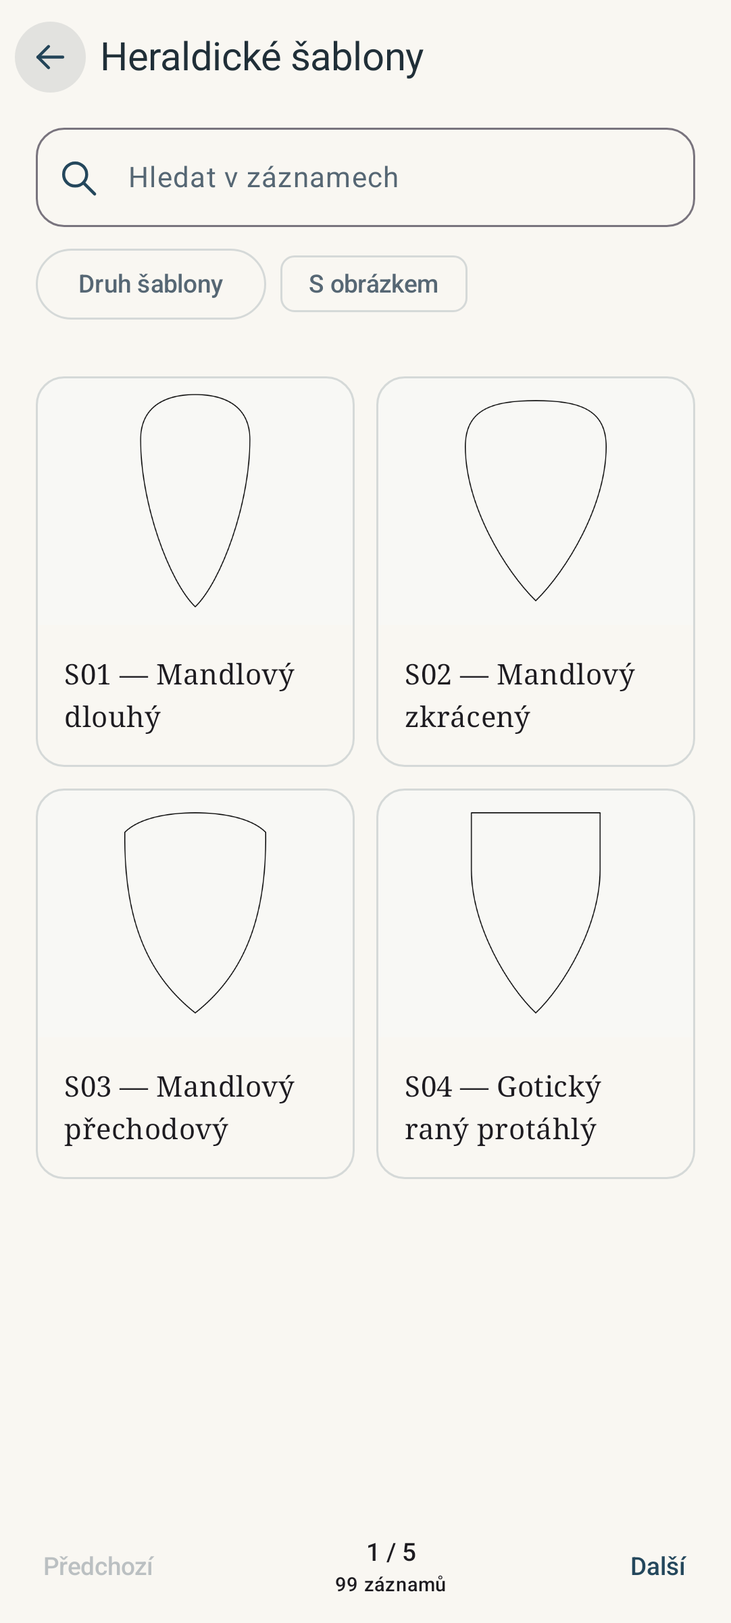
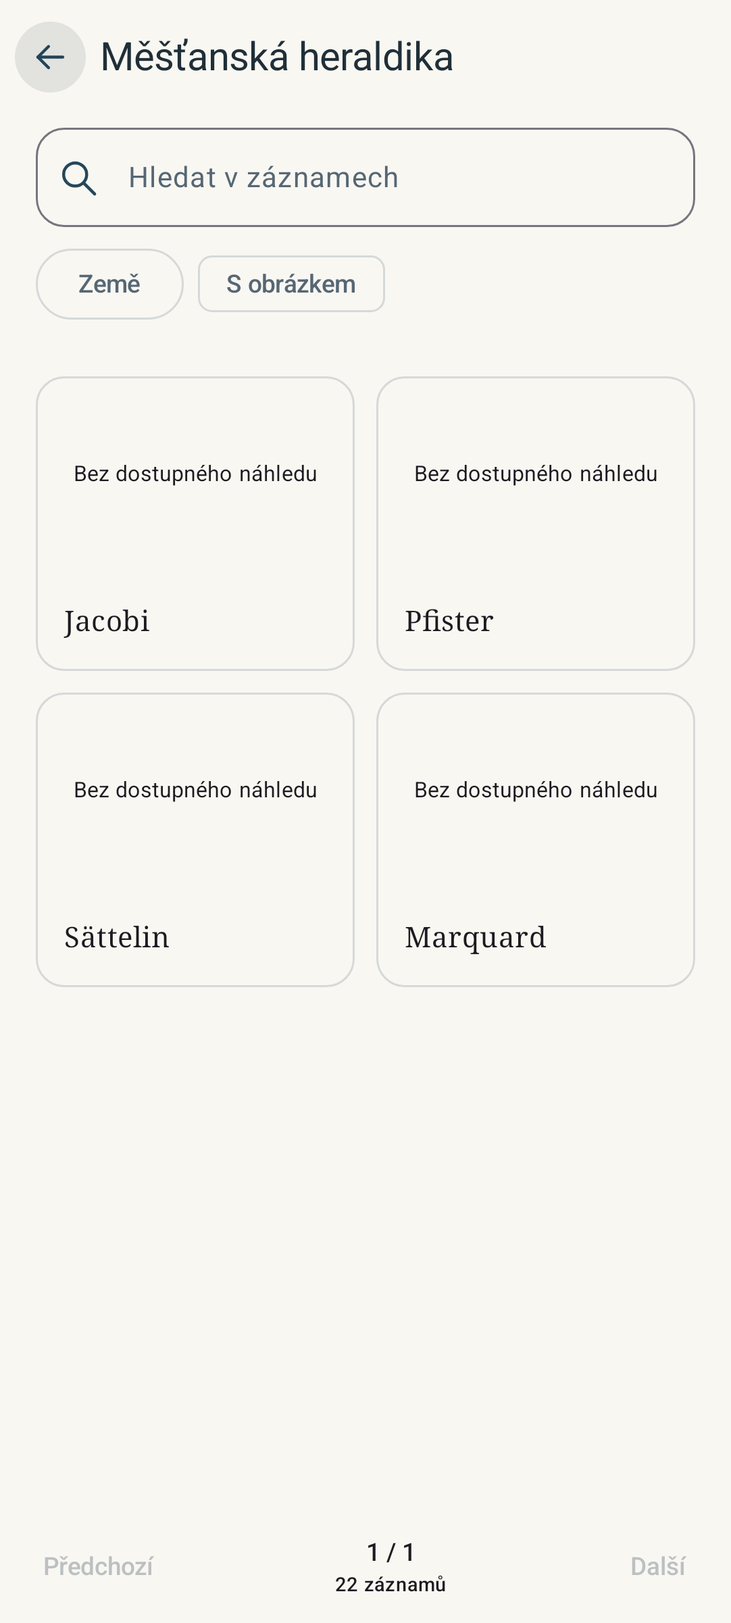
Remove desktop-only templates and validate mobile aid readers on device

diff --git a/app/src/main/kotlin/com/vestigiascriptorium/android/ui/main/DownloadsScreen.kt b/app/src/main/kotlin/com/vestigiascriptorium/android/ui/main/DownloadsScreen.kt
@@ -9,6 +9,7 @@ import androidx.compose.material3.*
 import androidx.compose.runtime.*
 import androidx.compose.runtime.saveable.rememberSaveable
 import androidx.compose.ui.Modifier
+import androidx.compose.ui.platform.testTag
 import androidx.compose.ui.text.font.FontFamily
 import androidx.compose.ui.unit.dp
 import com.vestigiascriptorium.android.aids.AidLibraryState
@@ -18,12 +19,12 @@ internal fun DownloadsScreen(copy: Copy,library: AidLibraryState,onDownload: (St
     onCancel: (String) -> Unit,onUninstall: (String) -> Unit,onWifi: (Boolean) -> Unit,onCatalog: () -> Unit,onDetail: (String) -> Unit) {
     var filter by rememberSaveable { mutableIntStateOf(0) }
     var removeId by rememberSaveable { mutableStateOf<String?>(null) }
-    val selected=aids.filter { aid -> library.jobs[aid.id]?.let { job ->
-        when(filter) { 1 -> job.status !in listOf("installed","update","error");2 -> library.installed.containsKey(aid.id);3 -> job.status=="error";else -> true }
+    val selected=managedAids.filter { aid -> library.jobs[aid.id]?.let { job ->
+        when(filter) { 1 -> job.status !in listOf("installed","update","error","retired");2 -> library.installed.containsKey(aid.id);3 -> job.status=="error";else -> true }
     } ?: false }
     val installedSize=library.installed.values.sumOf { it.size }
     val filterLabels=listOf(copy.t("Vše","All"),copy.t("Fronta","Queue"),copy.t("Nainstalované","Installed"),copy.t("Chyby","Errors"))
-    LazyColumn(contentPadding=PaddingValues(24.dp),verticalArrangement=Arrangement.spacedBy(20.dp)) {
+    LazyColumn(modifier=Modifier.testTag("downloads-list"),contentPadding=PaddingValues(24.dp),verticalArrangement=Arrangement.spacedBy(20.dp)) {
         item { Eyebrow(copy.t("SPRÁVA BADATELSKÝCH POMŮCEK","RESEARCH AID MANAGEMENT")) }
         item { Heading(copy.t("Stahování","Downloads"),copy.t("Stažení, instalace a odinstalace databázových pomůcek.","Download, install and uninstall reference databases.")) }
         item {
@@ -57,6 +58,7 @@ internal fun DownloadsScreen(copy: Copy,library: AidLibraryState,onDownload: (St
                 Column(Modifier.fillMaxWidth().padding(20.dp),verticalArrangement=Arrangement.spacedBy(12.dp)) {
                     Text(copy.title(aid),style=MaterialTheme.typography.titleLarge,fontFamily=FontFamily.Serif)
                     Pill(copy.status(status),installed!=null)
+                    if(aid.id=="heraldry-templates") Text(copy.t("Tento balíček je určen pouze pro desktop. V Androidu jej můžete odinstalovat.","This package is for desktop use only. You can uninstall it from Android."))
                     if(status=="active") {
                         LinearProgressIndicator(progress={if(job.total>0) (job.bytes.toFloat()/job.total).coerceIn(0f,1f) else 0f},modifier=Modifier.fillMaxWidth())
                         Text("${copy.size(job.bytes)} / ${copy.size(job.total)}",style=MaterialTheme.typography.bodySmall)
@@ -65,7 +67,7 @@ internal fun DownloadsScreen(copy: Copy,library: AidLibraryState,onDownload: (St
                     if(status=="queued") Text(copy.t("Čeká na povolenou síť nebo spuštění systémem.","Waiting for an allowed network or system scheduling."),style=MaterialTheme.typography.bodySmall)
                     if(status=="paused") Text(copy.t("Po pokračování se balíček stáhne od začátku.","Resuming will download the package from the beginning."),style=MaterialTheme.typography.bodySmall)
                     if(status=="error") Text(copy.error(job.error),color=MaterialTheme.colorScheme.error)
-                    if(installed!=null && status !in listOf("installed","update")) Text(copy.t("Původní databáze je stále nainstalovaná.","The existing database is still installed."),style=MaterialTheme.typography.bodySmall)
+                    if(installed!=null && status !in listOf("installed","update","retired")) Text(copy.t("Původní databáze je stále nainstalovaná.","The existing database is still installed."),style=MaterialTheme.typography.bodySmall)
                     if(status!="busy") {
                         FlowRow(horizontalArrangement=Arrangement.spacedBy(8.dp)) {
                             when(status) {
@@ -75,8 +77,8 @@ internal fun DownloadsScreen(copy: Copy,library: AidLibraryState,onDownload: (St
                                 "error" -> TextButton(onClick={onDownload(aid.id)}) { Text(copy.t("Zkusit znovu","Retry")) }
                                 "paused" -> TextButton(onClick={onDownload(aid.id)}) { Text(copy.t("Pokračovat","Resume")) }
                             }
-                            if(status !in listOf("installed","update")) TextButton(onClick={onCancel(aid.id)}) { Text(copy.t("Zrušit přenos","Cancel transfer")) }
-                            if(installed!=null) TextButton(onClick={removeId=aid.id}) { Text(copy.t("Odinstalovat","Uninstall"),color=MaterialTheme.colorScheme.error) }
+                            if(status !in listOf("installed","update","retired")) TextButton(onClick={onCancel(aid.id)}) { Text(copy.t("Zrušit přenos","Cancel transfer")) }
+                            if(installed!=null || aid.id=="heraldry-templates") TextButton(onClick={removeId=aid.id}) { Text(copy.t("Odinstalovat","Uninstall"),color=MaterialTheme.colorScheme.error) }
                         }
                     }
                 }
@@ -84,5 +86,5 @@ internal fun DownloadsScreen(copy: Copy,library: AidLibraryState,onDownload: (St
         }
         item { Note(copy.t("Stahují se pouze badatelské pomůcky. Rodokmeny a vlastní dokumenty nejsou součástí tohoto správce.","Only research aids are downloaded. Family trees and personal documents are not part of this manager.")) }
     }
-    removeId?.let { id -> UninstallDialog(copy,copy.title(aids.first { it.id==id }),onDismiss={removeId=null},onConfirm={onUninstall(id);removeId=null}) }
+    removeId?.let { id -> UninstallDialog(copy,copy.title(managedAids.first { it.id==id }),onDismiss={removeId=null},onConfirm={onUninstall(id);removeId=null}) }
 }

diff --git a/app/src/main/kotlin/com/vestigiascriptorium/android/aids/AidRepository.kt b/app/src/main/kotlin/com/vestigiascriptorium/android/aids/AidRepository.kt
@@ -34,17 +34,19 @@ internal class AidRepository private constructor(private val app: Application) {
     private val catalogFile=AtomicFile(File(app.noBackupFilesDir,"research-aids-catalog.json"))
     private val stateFlow=MutableStateFlow(AidLibraryState(wifiOnly=prefs.getBoolean("wifiOnly",true)))
     val state=stateFlow.asStateFlow()
-    @Volatile private var metadata=runCatching { catalogFile.openRead().bufferedReader().use { AidNetwork.parse(it.readText()) } }
-        .getOrElse { app.assets.open("research-aids.json").bufferedReader().use { AidNetwork.parse(it.readText()) } }
+    @Volatile private var metadata=MobileAids.withCache(
+        app.assets.open("research-aids.json").bufferedReader().use { AidNetwork.parse(it.readText()) },
+        runCatching { catalogFile.openRead().bufferedReader().use { AidNetwork.parse(it.readText()) } }.getOrDefault(emptyMap()))
     private val busy=java.util.concurrent.ConcurrentHashMap.newKeySet<String>()
     @Volatile private var infos: List<WorkInfo> = emptyList()
     init {
         scope.launch { work.getWorkInfosByTagFlow(TAG).collect { infos=it;publish() } }
         scope.launch { while(isActive) { publish();delay(750) } }
+        scope.launch { work.cancelUniqueWork("aid:${MobileAids.DESKTOP_TEMPLATES}").result.get() }
         refresh()
     }
     @Synchronized private fun publish() {
-        val installed=metadata.keys.mapNotNull { id -> store.installed(id)?.let { id to it } }.toMap()
+        val installed=(metadata.keys+MobileAids.DESKTOP_TEMPLATES).mapNotNull { id -> store.installed(id)?.let { id to it } }.toMap()
         val jobs=linkedMapOf<String,AidJob>()
         metadata.forEach { (id,meta) ->
             val saved=prefs.getString("state:$id",null)
@@ -61,6 +63,9 @@ internal class AidRepository private constructor(private val app: Application) {
             }
             if(current!=null) jobs[id]=current
         }
+        if(store.hasFiles(MobileAids.DESKTOP_TEMPLATES) || MobileAids.DESKTOP_TEMPLATES in busy) {
+            jobs[MobileAids.DESKTOP_TEMPLATES]=AidJob(if(MobileAids.DESKTOP_TEMPLATES in busy) "busy" else "retired")
+        }
         stateFlow.value=stateFlow.value.copy(metadata=metadata,installed=installed,jobs=jobs,wifiOnly=prefs.getBoolean("wifiOnly",true),busy=busy.toSet())
     }
     fun refresh() { scope.launch {
@@ -69,7 +74,7 @@ internal class AidRepository private constructor(private val app: Application) {
         finally { stateFlow.value=stateFlow.value.copy(refreshing=false);publish() }
     }}
     fun refreshNow(): Map<String,AidMetadata> {
-        val next=AidNetwork.catalog()
+        val next=MobileAids.compatible(AidNetwork.catalog())
         // Older web deployments return just heraldic templates. Keep other cached metadata.
         synchronized(catalogFile) {
         metadata=metadata+next
@@ -114,7 +119,7 @@ internal class AidRepository private constructor(private val app: Application) {
         prefs.edit().putBoolean("wifiOnly",value).apply();publish()
         // Existing requests retain their constraints; restart pending requests under the new policy.
         infos.filter { !it.state.isFinished }.flatMap { it.tags }.filter { it.startsWith("aid:") }.distinct()
-            .forEach { tag -> download(tag.removePrefix("aid:")) }
+            .filter { it.removePrefix("aid:") in MobileAids.ids }.forEach { tag -> download(tag.removePrefix("aid:")) }
     }
     fun clearError() { stateFlow.value=stateFlow.value.copy(actionError=null) }
     private fun action(id: String, block: () -> Unit) {

diff --git a/app/src/test/kotlin/com/vestigiascriptorium/android/aids/reader/AidSchemasTest.kt b/app/src/test/kotlin/com/vestigiascriptorium/android/aids/reader/AidSchemasTest.kt
@@ -6,9 +6,9 @@ import java.io.File
 import java.util.Base64
 
 class AidSchemasTest {
-    private val ids=listOf("historical-units","saints","places","manuscript-abbreviations","heraldry","heraldry-nobility","heraldry-ecclesiastical","heraldry-chivalric-orders","heraldry-burgher-patrician","heraldry-personal-coats-of-arms","heraldry-templates","numismatics","sigillography","epigraphy-noble-tombs")
+    private val ids=listOf("historical-units","saints","places","manuscript-abbreviations","heraldry","heraldry-nobility","heraldry-ecclesiastical","heraldry-chivalric-orders","heraldry-burgher-patrician","heraldry-personal-coats-of-arms","numismatics","sigillography","epigraphy-noble-tombs")
     @Test fun everyPublishedAidHasTheExpectedSharedPresentation() {
-        assertEquals(14,ids.size)
+        assertEquals(13,ids.size)
         assertEquals(4,ids.count { AidSchemas.get(it,"cs").kind==AidViewKind.TEXT })
         for(id in ids) {
             val schema=AidSchemas.get(id,"cs")
@@ -17,6 +17,15 @@ class AidSchemasTest {
             assertEquals(schema.kind,AidSchemas.get(id,"en").kind)
         }
         assertThrows(IllegalArgumentException::class.java) { AidSchemas.get("../unknown","cs") }
+        assertThrows(IllegalArgumentException::class.java) { AidSchemas.get("heraldry-templates","cs") }
+    }
+    @Test fun remoteAndCachedDesktopTemplatesCannotReturnToMobileCatalogue() {
+        val legacy=com.vestigiascriptorium.android.aids.AidMetadata("heraldry-templates","heraldry_template_catalog.db",100,4096,"a".repeat(64),3)
+        val mobile=legacy.copy(id="saints",file="saints.db")
+        val result=com.vestigiascriptorium.android.aids.MobileAids.compatible(mapOf(legacy.id to legacy,mobile.id to mobile))
+        assertEquals(setOf("saints"),result.keys)
+        assertEquals(setOf("saints"),com.vestigiascriptorium.android.aids.MobileAids.withCache(mapOf(mobile.id to mobile),mapOf(legacy.id to legacy)).keys)
+        assertEquals(com.vestigiascriptorium.android.aids.MobileAids.ids,ids.toSet())
     }
     @Test fun searchesTreatInputAsLiteralAndNormaliseDiacritics() {
         assertEquals("cesky krumlov",AidSchemas.fold("ČESKÝ Krumlov"))
@@ -28,7 +37,7 @@ class AidSchemasTest {
         val output=System.getenv("VESTIGIA_READER_PROBES") ?: return
         val rows=ids.flatMap { id -> listOf("cs","en").map { language ->
             val s=AidSchemas.get(id,language)
-            listOf(id,language,s.from,s.key,s.title,s.summary,s.search,s.fts ?: "",s.titleJson,s.facet?.sql ?: "",s.facet?.optionsSql ?: "",s.fields.joinToString(","){it.sql},AidSchemas.imageExists(s),if(s.imageFamily!=null && s.imageFamily!="templates") AidSchemas.imageSql(s.imageFamily) else "",AidSchemas.extrasSql(s.imageFamily).joinToString("\n"))
+            listOf(id,language,s.from,s.key,s.title,s.summary,s.search,s.fts ?: "",s.titleJson,s.facet?.sql ?: "",s.facet?.optionsSql ?: "",s.fields.joinToString(","){it.sql},AidSchemas.imageExists(s),if(s.imageFamily!=null) AidSchemas.imageSql(s.imageFamily) else "",AidSchemas.extrasSql(s.imageFamily).joinToString("\n"))
                 .joinToString("\t") { Base64.getEncoder().encodeToString(it.toByteArray()) }
         }}
         File(output).writeText(rows.joinToString("\n"))

diff --git a/app/src/main/kotlin/com/vestigiascriptorium/android/ui/main/Catalog.kt b/app/src/main/kotlin/com/vestigiascriptorium/android/ui/main/Catalog.kt
@@ -17,7 +17,6 @@ internal val aids = listOf(
     Aid("saints", "Kalendář světců", "Calendar of saints", "Sváteční dny a jména světců pro čtení historických datací.", "Feast days and saints’ names for interpreting historical dates.", 0, "2,1", "5,2"),
     Aid("historical-units", "Historické míry a váhy", "Historical weights and measures", "Přehled historických jednotek pro práci s archivními prameny.", "Historical units of measurement for working with archival sources.", 0, "0,15", "0,48"),
     Aid("manuscript-abbreviations", "Písařské zkratky", "Scribal abbreviations", "Pomocník při čtení zkratek v rukopisech a starých zápisech.", "A reference for reading abbreviations in manuscripts and old records.", 1, "0,01", "0,07"),
-    Aid("heraldry-templates", "Heraldické šablony", "Heraldic templates", "Katalog tvarů štítů, přileb a dalších heraldických prvků.", "A catalogue of shields, helmets and other heraldic elements.", 2, "1,6", "2,4"),
     Aid("heraldry", "Obecní heraldika", "Municipal heraldry", "Erby obcí jako pomůcka pro identifikaci míst a pramenů.", "Municipal coats of arms for identifying places and sources.", 2, "20", "53"),
     Aid("heraldry-nobility", "Šlechtická heraldika", "Noble heraldry", "Erby šlechtických rodů.", "Coats of arms of noble families.", 2, "5,5", "17,6"),
     Aid("heraldry-ecclesiastical", "Církevní heraldika", "Ecclesiastical heraldry", "Erby církevních institucí a osob.", "Arms of ecclesiastical institutions and individuals.", 2, "0,8", "2,4"),
@@ -28,6 +27,9 @@ internal val aids = listOf(
     Aid("sigillography", "Sfragistika", "Sigillography", "Podklady pro studium pečetí a jejich držitelů.", "Reference material for the study of seals and their owners.", 3, "0,4", "1,6"),
     Aid("epigraphy-noble-tombs", "Šlechtické náhrobníky", "Noble tomb monuments", "Epigrafické podklady k historickým náhrobníkům.", "Epigraphic references for historical tomb monuments.", 3, "6,1", "26"),
 )
+
+// Kept solely to offer explicit removal of a package installed by an older Android build.
+internal val managedAids=aids+Aid("heraldry-templates","Heraldické šablony (desktop)","Heraldic templates (desktop)","","",2,"","")
 
 internal class Copy(val cs: Boolean) {
     fun t(cs: String, en: String) = if (this.cs) cs else en
@@ -53,6 +55,7 @@ internal class Copy(val cs: Boolean) {
         "verifying" -> t("Ověřování", "Verifying")
         "installing" -> t("Instalace", "Installing")
         "update" -> t("Dostupná aktualizace", "Update available")
+        "retired" -> t("Pouze pro desktop", "Desktop only")
         "busy" -> t("Zpracovávám…", "Processing…")
         else -> t("Ke stažení", "Available to download")
     }

diff --git a/app/src/androidTest/kotlin/com/vestigiascriptorium/android/ui/main/LibraryUiTest.kt b/app/src/androidTest/kotlin/com/vestigiascriptorium/android/ui/main/LibraryUiTest.kt
@@ -33,10 +33,33 @@ class LibraryUiTest {
         val meta=context.assets.open("research-aids.json").bufferedReader().use { AidNetwork.parse(it.readText()) }.getValue("historical-units")
         var opened: String?=null
         val library=AidLibraryState(metadata=mapOf(meta.id to meta),installed=mapOf(meta.id to meta),jobs=mapOf(meta.id to AidJob("installed")))
-        rule.setContent { VestigiaScriptoriumTheme { VestigiaApp(initialTab=1,library=library,onOpenAid={opened=it}) } }
-        rule.onNodeWithText("Historické míry a váhy").performScrollTo().performClick()
+        rule.setContent {
+            val configuration=android.content.res.Configuration(androidx.compose.ui.platform.LocalConfiguration.current).apply { setLocale(java.util.Locale.forLanguageTag("cs")) }
+            androidx.compose.runtime.CompositionLocalProvider(androidx.compose.ui.platform.LocalConfiguration provides configuration) {
+                VestigiaScriptoriumTheme { VestigiaApp(initialTab=1,library=library,onOpenAid={opened=it}) }
+            }
+        }
+        rule.onNodeWithTag("aids-catalogue")
+            .performScrollToNode(hasText("Historické míry a váhy"))
+        rule.onNodeWithText("Historické míry a váhy").performClick()
         rule.runOnIdle { assertEquals(meta.id,opened) }
         rule.onNodeWithText("Po instalaci").assertDoesNotExist()
+    }
+    @Test fun desktopTemplatesAreHiddenAndOnlyOfferLegacyUninstall() {
+        val meta=AidMetadata("heraldry-templates","heraldry_template_catalog.db",100,4096,"a".repeat(64),3)
+        val library=AidLibraryState(installed=mapOf(meta.id to meta),jobs=mapOf(meta.id to AidJob("retired")))
+        rule.setContent {
+            val configuration=android.content.res.Configuration(androidx.compose.ui.platform.LocalConfiguration.current).apply { setLocale(java.util.Locale.forLanguageTag("cs")) }
+            androidx.compose.runtime.CompositionLocalProvider(androidx.compose.ui.platform.LocalConfiguration provides configuration) {
+                VestigiaScriptoriumTheme { VestigiaApp(initialTab=1,library=library) }
+            }
+        }
+        rule.onNodeWithText("Heraldické šablony (desktop)").assertDoesNotExist()
+        rule.onNode(hasText("Stahování") and hasClickAction()).performClick()
+        rule.onNodeWithTag("downloads-list").performScrollToNode(hasText("Heraldické šablony (desktop)"))
+        rule.onNodeWithText("Otevřít").assertDoesNotExist()
+        rule.onNodeWithText("Aktualizovat").assertDoesNotExist()
+        rule.onNodeWithText("Odinstalovat").assertExists()
     }
     @Test fun uninstallRequiresConfirmationAndTargetsOnlySelectedAid() {
         val context=InstrumentationRegistry.getInstrumentation().targetContext

diff --git a/app/src/main/kotlin/com/vestigiascriptorium/android/aids/reader/AidSchemas.kt b/app/src/main/kotlin/com/vestigiascriptorium/android/aids/reader/AidSchemas.kt
@@ -31,9 +31,6 @@ internal object AidSchemas {
             "manuscript-abbreviations" -> AidSchema(id,"abbreviations a","CAST(a.id AS TEXT)","a.abbreviation","a.expansion","a.search_text",
                 listOf(AidField("Rozvedení","Expansion","a.expansion"),AidField("Jazyk","Language","a.language","language"),AidField("Kategorie","Category","a.category"),AidField("Období","Period","a.period"),AidField("Oblast","Region","a.region"),AidField("Varianty","Variants","a.variants"),AidField("Poznámka","Notes","a.notes"),source("a.source_url")),
                 AidFacet("Jazyk","Language","a.language","SELECT DISTINCT language FROM abbreviations ORDER BY language","language"))
-            "heraldry-templates" -> AidSchema(id,"templates t LEFT JOIN template_translations tr ON tr.template_id=t.id AND tr.locale='$lang'","t.id","COALESCE(NULLIF(tr.name,''),t.name)","COALESCE(NULLIF(tr.description,''),t.description)","t.name || ' ' || t.description || ' ' || COALESCE(tr.name,'') || ' ' || COALESCE(tr.description,'')",
-                listOf(AidField("Popis","Description","COALESCE(NULLIF(tr.description,''),t.description)"),AidField("Druh","Type","t.kind","kind"),AidField("Období","Period","t.period"),AidField("Původ","Provenance","t.provenance")),
-                AidFacet("Druh šablony","Template type","t.kind","SELECT DISTINCT kind FROM templates ORDER BY kind","kind"),AidViewKind.IMAGE,"templates")
             "numismatics","sigillography" -> AidSchema(id,"objects o","o.wikidata_id","o.display_name","o.description","o.display_name || ' ' || o.description",
                 listOf(AidField("Popis","Description","o.description"),AidField("Datové sady","Datasets","(SELECT group_concat(d.name, ', ') FROM object_datasets od JOIN datasets d ON d.id=od.dataset_id WHERE od.object_id=o.wikidata_id)"),source("o.wikidata_url")),
                 null,AidViewKind.IMAGE,"objects","o.wikidata_id IN (SELECT object_id FROM object_search WHERE object_search MATCH ?)")
@@ -52,7 +49,6 @@ internal object AidSchemas {
         }
     }
     fun imageExists(s: AidSchema): String = when(s.imageFamily) {
-        "templates" -> "length(t.image)>0"
         "heraldry" -> "EXISTS(SELECT 1 FROM images i WHERE i.wikidata_id=e.wikidata_id AND i.missing=0 AND i.display_policy IN ('public_domain','attribution_required'))"
         "objects" -> "EXISTS(SELECT 1 FROM images i WHERE i.object_id=o.wikidata_id AND i.display_policy IN ('public_domain','attribution_required'))"
         "monuments" -> "EXISTS(SELECT 1 FROM monument_media mm JOIN media i ON i.file_name=mm.file_name WHERE mm.monument_qid=m.qid AND i.missing=0 AND i.reuse_status IN ('public_domain','attribution_required'))"

diff --git a/app/src/androidTest/kotlin/com/vestigiascriptorium/android/aids/reader/ReaderUiTest.kt b/app/src/androidTest/kotlin/com/vestigiascriptorium/android/aids/reader/ReaderUiTest.kt
@@ -36,16 +36,23 @@ class ReaderUiTest {
         rule.onNodeWithText("Smazat").performClick()
         rule.waitUntil(10_000) { rule.onAllNodesWithText(first.title).fetchSemanticsNodes().isNotEmpty() }
     }
-    @Test fun galleryOpensEmbeddedImageAndZoom() = withReaderFixtures { root,names ->
-        val source=AidReaderSource { File(root,names.getValue("heraldry-templates")) }
-        val first=runBlocking { source.page("heraldry-templates","cs","","",0).records.first() }
-        rule.setContent { VestigiaScriptoriumTheme { AidReaderScreen(aids.first {it.id=="heraldry-templates"},Copy(true),source,{}) } }
+    @Test fun galleryOpensRecord() = withReaderFixtures { root,names ->
+        val source=AidReaderSource { File(root,names.getValue("sigillography")) }
+        val first=runBlocking { source.page("sigillography","cs","","",0).records.first() }
+        rule.setContent { VestigiaScriptoriumTheme { AidReaderScreen(aids.first {it.id=="sigillography"},Copy(true),source,{}) } }
         rule.waitUntil(10_000) { rule.onAllNodesWithText(first.title).fetchSemanticsNodes().isNotEmpty() }
         rule.onAllNodesWithText(first.title)[0].performClick()
-        rule.waitUntil(10_000) { rule.onAllNodesWithContentDescription(first.images.first().name).fetchSemanticsNodes().isNotEmpty() }
-        rule.onNodeWithContentDescription(first.images.first().name).performClick()
-        rule.onNodeWithText("Zavřít obrázek").assertIsDisplayed().performClick()
+        rule.waitUntil(10_000) { rule.onAllNodes(hasSetTextAction()).fetchSemanticsNodes().isEmpty() && rule.onAllNodesWithText(first.title).fetchSemanticsNodes().isNotEmpty() }
         rule.onNodeWithContentDescription("Zpět").performClick()
         rule.onNodeWithText("Hledat v záznamech").assertExists()
+    }    @Test fun sharedImageZoomClosesAndResets() {
+        val bitmap=android.graphics.Bitmap.createBitmap(4,4,android.graphics.Bitmap.Config.ARGB_8888)
+        val bytes=java.io.ByteArrayOutputStream().also { bitmap.compress(android.graphics.Bitmap.CompressFormat.PNG,100,it) }.toByteArray()
+        val closed=androidx.compose.runtime.mutableStateOf(false)
+        rule.setContent { VestigiaScriptoriumTheme { if(!closed.value) ImageZoom(RecordImage("Test",bytes,online=false),Copy(true),onClose={closed.value=true}) } }
+        rule.onNodeWithText("100 %").performClick()
+        rule.onNodeWithText("Zavřít obrázek").performClick()
+        rule.runOnIdle { org.junit.Assert.assertTrue(closed.value) }
     }
+
 }

diff --git a/app/src/main/kotlin/com/vestigiascriptorium/android/aids/reader/AidReaderSource.kt b/app/src/main/kotlin/com/vestigiascriptorium/android/aids/reader/AidReaderSource.kt
@@ -62,6 +62,10 @@ internal class AidReaderSource(private val file: () -> File?) {
                 }}} ?: emptyList()
                 RecordPage(withImages,total,safePage,options,schema.facet?.let { if(language=="cs") it.cs else it.en },schema.kind)
             }
+            } catch(error: android.os.OperationCanceledException) {
+                // SQLite cancellation is not a Kotlin CancellationException. Preserve structured cancellation.
+                ensureActive()
+                throw error
             } finally { watcher.cancel() }
         }
     }
@@ -92,9 +96,6 @@ internal class AidReaderSource(private val file: () -> File?) {
     private fun hasFts5(db: SQLiteDatabase)=db.rawQuery("PRAGMA compile_options",null).use { c -> var enabled=false;while(c.moveToNext()) if(c.getString(0)=="ENABLE_FTS5") enabled=true;enabled }
     private fun images(db: SQLiteDatabase,s: AidSchema,id: String,limit: Int): Pair<List<RecordImage>,Int> {
         if(s.imageFamily==null) return emptyList<RecordImage>() to 0
-        if(s.imageFamily=="templates") return db.rawQuery("SELECT name,image FROM templates WHERE id=? AND length(image)>0",arrayOf(id)).use { c ->
-            (if(c.moveToFirst()) listOf(RecordImage(c.string(0),c.getBlob(1),online=false)) else emptyList()) to 0
-        }
         val sql=AidSchemas.imageSql(s.imageFamily)
         var hidden=0
         val result=db.rawQuery(sql,arrayOf(id)).use { c -> buildList {
@@ -181,7 +182,6 @@ internal class AidReaderSource(private val file: () -> File?) {
             "feast" -> value.split(",").joinToString(", ") { raw ->
                 val day=raw.trim();val parts=day.split('-');if(language=="cs" && parts.size==2) "${parts[1].toIntOrNull() ?: parts[1]}. ${parts[0].toIntOrNull() ?: parts[0]}." else day
             }
-            "kind" -> if(language!="cs") value.replaceFirstChar { it.uppercase() } else mapOf("shield" to "Štít","helm" to "Přilba","wreath" to "Točenice","crest" to "Klenot","crown" to "Koruna","mantling" to "Přikryvadlo","compartment" to "Půda","supporter" to "Štítonoš","motto" to "Heslo","cartouche" to "Kartuše","mantle" to "Plášť","composition" to "Kompozice","hat" to "Klobouk","mitre" to "Mitra","crozier" to "Berla")[value] ?: value
             else -> value
         }
     }

diff --git a/app/src/debug/kotlin/com/vestigiascriptorium/android/aids/reader/ReaderPreviews.kt b/app/src/debug/kotlin/com/vestigiascriptorium/android/aids/reader/ReaderPreviews.kt
@@ -2,11 +2,9 @@ package com.vestigiascriptorium.android.aids.reader
 
 import androidx.compose.runtime.Composable
 import androidx.compose.ui.tooling.preview.Preview
-import androidx.compose.ui.platform.LocalContext
 import com.vestigiascriptorium.android.ui.main.Copy
 import com.vestigiascriptorium.android.ui.main.aids
 import com.vestigiascriptorium.android.ui.theme.VestigiaScriptoriumTheme
-import org.json.JSONArray
 
 @Preview(name="Text research aid",showBackground=true,device="spec:width=412dp,height=915dp,dpi=420",locale="cs")
 @Composable
@@ -18,12 +16,6 @@ fun TextReaderPreview() {
 @Preview(name="Image research aid",showBackground=true,device="spec:width=412dp,height=915dp,dpi=420",locale="cs")
 @Composable
 fun ImageReaderPreview() {
-    val assets=LocalContext.current.assets
-    val data=JSONArray(assets.open("reader-preview.json").bufferedReader().use {it.readText()})
-    val records=(0 until data.length()).map { index ->
-        val item=data.getJSONObject(index)
-        val name=item.getString("title")
-        AidRecord(item.getString("id"),name,"",images=listOf(RecordImage(name,assets.open(item.getString("image")).use {it.readBytes()},online=false)))
-    }
-    VestigiaScriptoriumTheme { AidReaderScreen(aids.first {it.id=="heraldry-templates"},Copy(true),AidReaderSource {null},{},RecordPage(records,99,0,listOf(FacetOption("shield","Štít")),"Druh šablony",AidViewKind.IMAGE)) }
+    val records=listOf(AidRecord("Q131226179","Jacobi",""),AidRecord("Q131621255","Pfister",""),AidRecord("Q131634701","Sättelin",""),AidRecord("Q132571619","Marquard",""))
+    VestigiaScriptoriumTheme { AidReaderScreen(aids.first {it.id=="heraldry-burgher-patrician"},Copy(true),AidReaderSource {null},{},RecordPage(records,22,0,listOf(FacetOption("BE","Belgie")),"Země",AidViewKind.IMAGE)) }
 }

diff --git a/app/src/main/kotlin/com/vestigiascriptorium/android/aids/AidWorker.kt b/app/src/main/kotlin/com/vestigiascriptorium/android/aids/AidWorker.kt
@@ -14,14 +14,13 @@ import java.io.File
 internal class AidWorker(context: Context,params: WorkerParameters): CoroutineWorker(context,params) {
     override suspend fun doWork(): Result = withContext(Dispatchers.IO) {
         val id=inputData.getString("aid") ?: return@withContext Result.failure()
+        if(id !in MobileAids.ids) return@withContext Result.failure(workDataOf("error" to "unavailable"))
         val repo=AidRepository.get(applicationContext)
         val jobContext=currentCoroutineContext()
         val check={ jobContext.ensureActive();if(isStopped) throw CancellationException() }
         try {
             setForeground(notification(id))
             var meta=runCatching { repo.refreshNow()[id] }.getOrNull() ?: repo.metadata(id) ?: throw AidFailure("unavailable")
-            // Decline known future schemas rather than claiming them as usable offline.
-            if(id=="heraldry-templates" && meta.schemaVersion!=3) throw AidFailure("unsupported")
             var lastProgress=0L
             var changed=false
             while(true) {
@@ -40,7 +39,6 @@ internal class AidWorker(context: Context,params: WorkerParameters): CoroutineWo
                     if(changed) throw AidFailure("changed")
                     changed=true
                     meta=repo.refreshNow()[id] ?: throw AidFailure("unavailable")
-                    if(id=="heraldry-templates" && meta.schemaVersion!=3) throw AidFailure("unsupported")
                 }
             }
             Result.success()

diff --git a/app/src/androidTest/kotlin/com/vestigiascriptorium/android/aids/reader/ReaderDeviceTest.kt b/app/src/androidTest/kotlin/com/vestigiascriptorium/android/aids/reader/ReaderDeviceTest.kt
@@ -16,7 +16,7 @@ import java.util.UUID
 @RunWith(AndroidJUnit4::class)
 class ReaderDeviceTest {
     private fun fixtures(test: (File,Map<String,String>) -> Unit) = withReaderFixtures(test)
-    @Test fun allFourteenDatabasesSharePageSearchFilterAndDetailContracts() = fixtures { root,names -> runBlocking {
+    @Test fun allThirteenDatabasesSharePageSearchFilterAndDetailContracts() = fixtures { root,names -> runBlocking {
         for((id,name) in names) {
             val source=AidReaderSource { File(root,name) }
             for(language in listOf("cs","en")) {
@@ -36,13 +36,7 @@ class ReaderDeviceTest {
                 if(page.kind==AidViewKind.IMAGE) {
                     val onlyImages=source.page(id,language,"","",0,true)
                     assertTrue(onlyImages.records.all { it.images.isNotEmpty() })
-                    if(id=="heraldry-templates") {
-                        assertTrue(onlyImages.total>0)
-                        val image=source.detail(id,language,onlyImages.records.first().id)!!.images.first()
-                        assertFalse(image.online)
-                        val bytes=image.data as ByteArray
-                        assertNotNull(BitmapFactory.decodeByteArray(bytes,0,bytes.size))
-                    }
+
                 }
             }
         }

diff --git a/app/src/main/kotlin/com/vestigiascriptorium/android/ui/main/AidsScreen.kt b/app/src/main/kotlin/com/vestigiascriptorium/android/ui/main/AidsScreen.kt
@@ -9,6 +9,7 @@ import androidx.compose.material3.*
 import androidx.compose.runtime.*
 import androidx.compose.runtime.saveable.rememberSaveable
 import androidx.compose.ui.Modifier
+import androidx.compose.ui.platform.testTag
 import androidx.compose.ui.text.font.FontFamily
 import androidx.compose.ui.unit.dp
 import com.vestigiascriptorium.android.aids.AidLibraryState
@@ -22,7 +23,7 @@ internal fun AidsScreen(copy: Copy,library: AidLibraryState,onRefresh: () -> Uni
         (category==-1 || aid.category==category) && (!offline || library.installed.containsKey(aid.id)) &&
             (copy.title(aid)+" "+copy.description(aid)).contains(query,ignoreCase=true)
     }
-    LazyColumn(contentPadding=PaddingValues(24.dp),verticalArrangement=Arrangement.spacedBy(16.dp)) {
+    LazyColumn(modifier=Modifier.testTag("aids-catalogue"),contentPadding=PaddingValues(24.dp),verticalArrangement=Arrangement.spacedBy(16.dp)) {
         item { Eyebrow(copy.t("KNIHOVNA PRO VAŠE BÁDÁNÍ","A LIBRARY FOR YOUR RESEARCH")) }
         item { Heading(copy.t("Badatelské pomůcky","Research aids"),copy.t("Vyberte si podklady pro práci bez připojení.","Choose reference material for working offline.")) }
         item {
